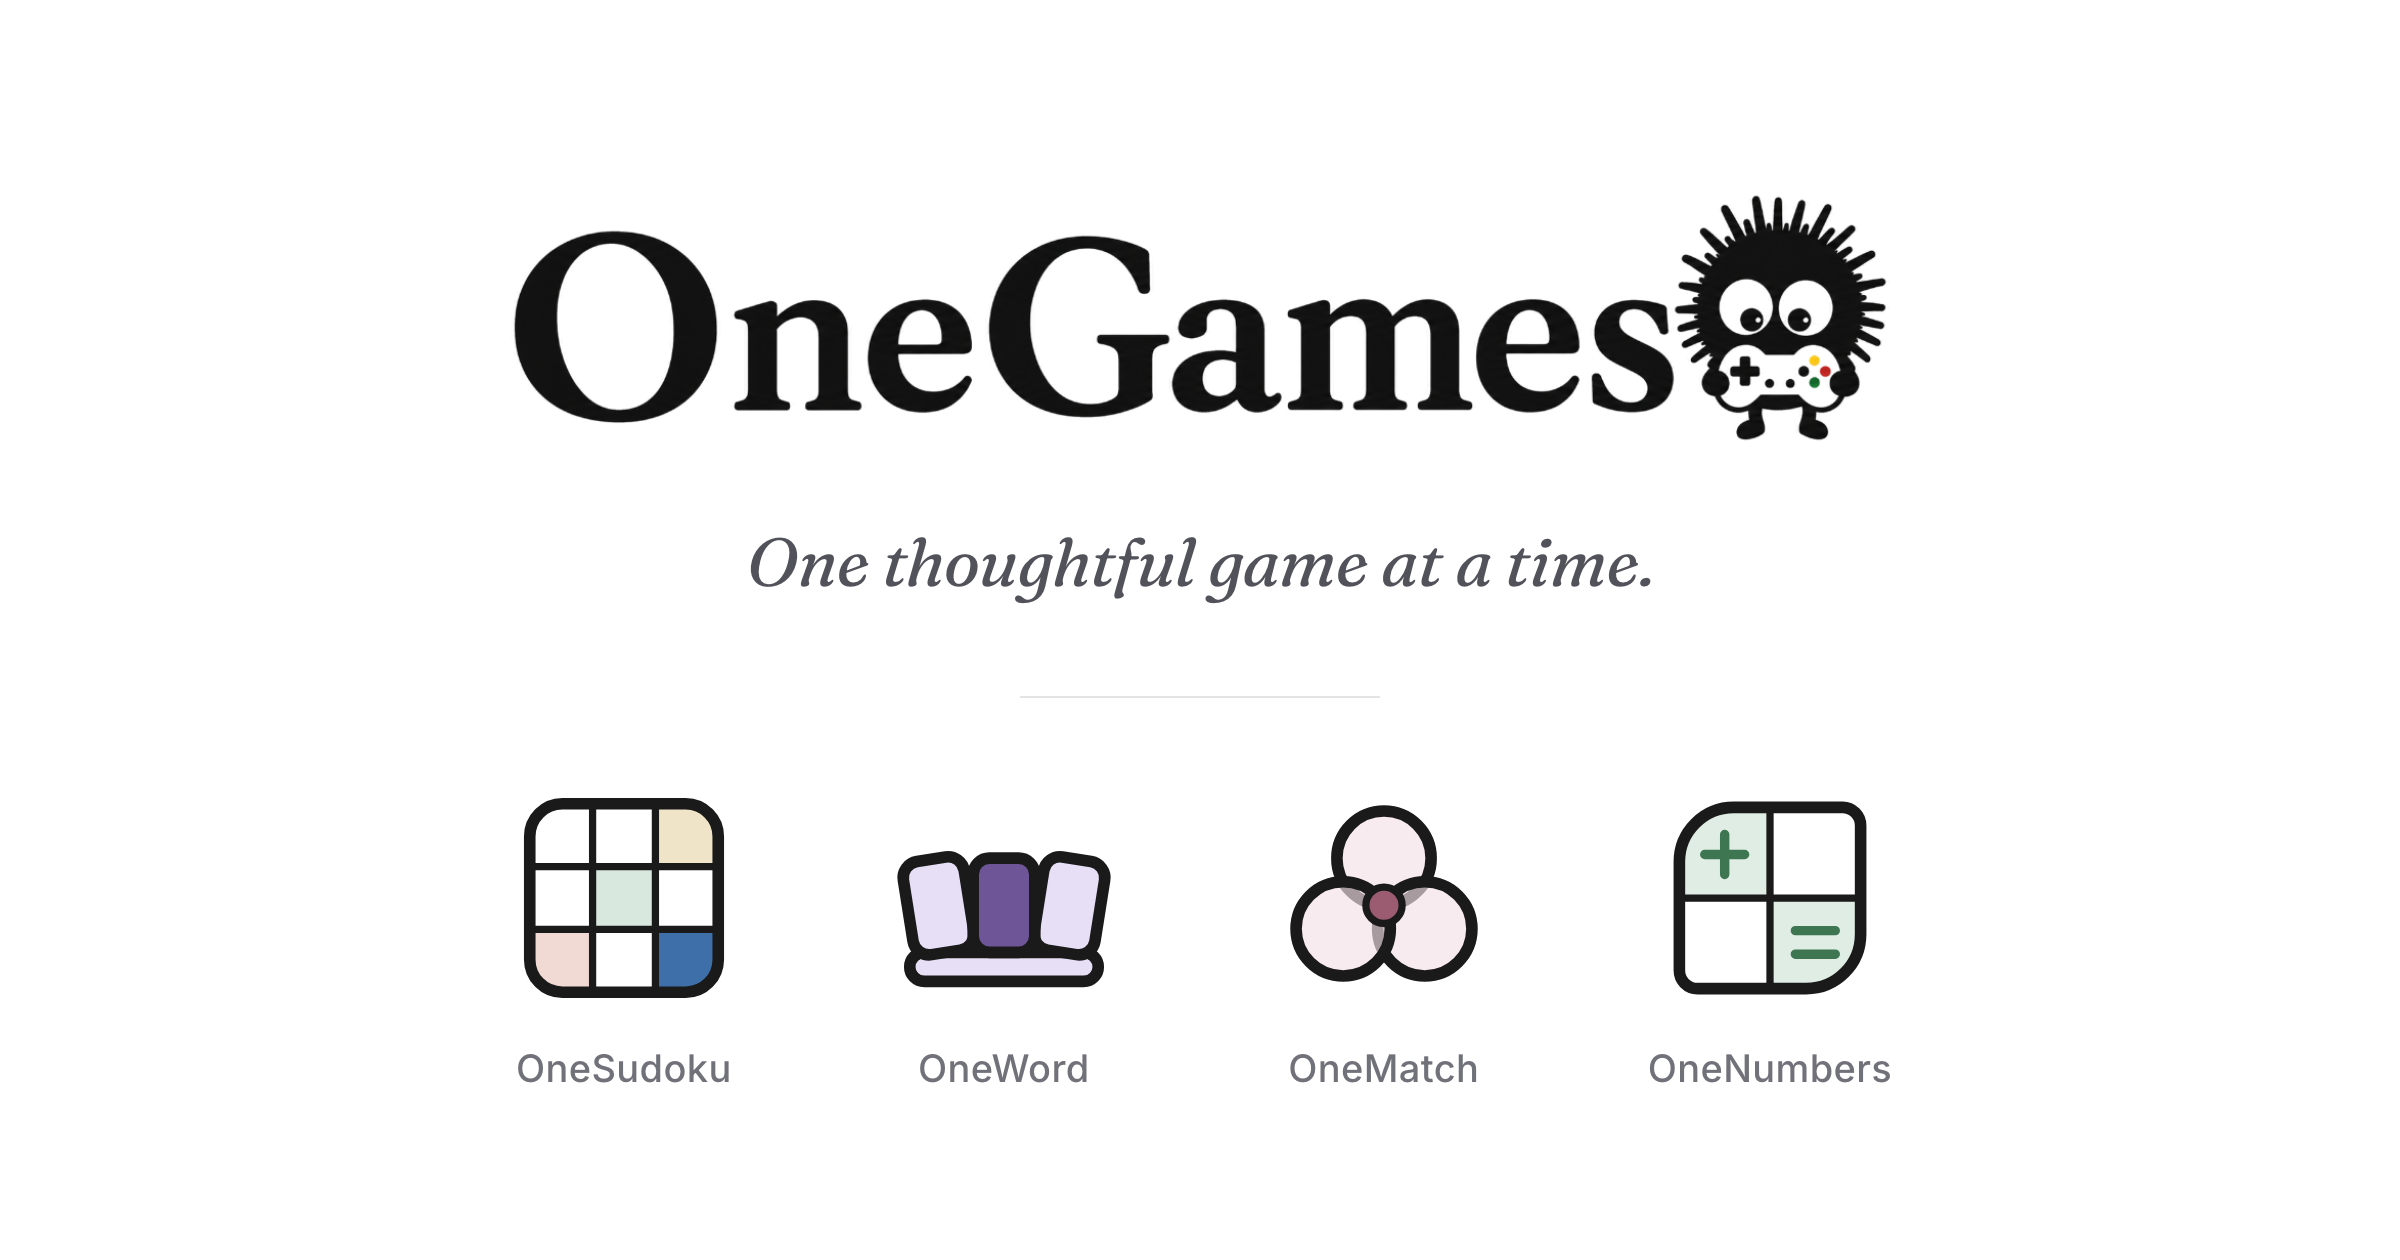
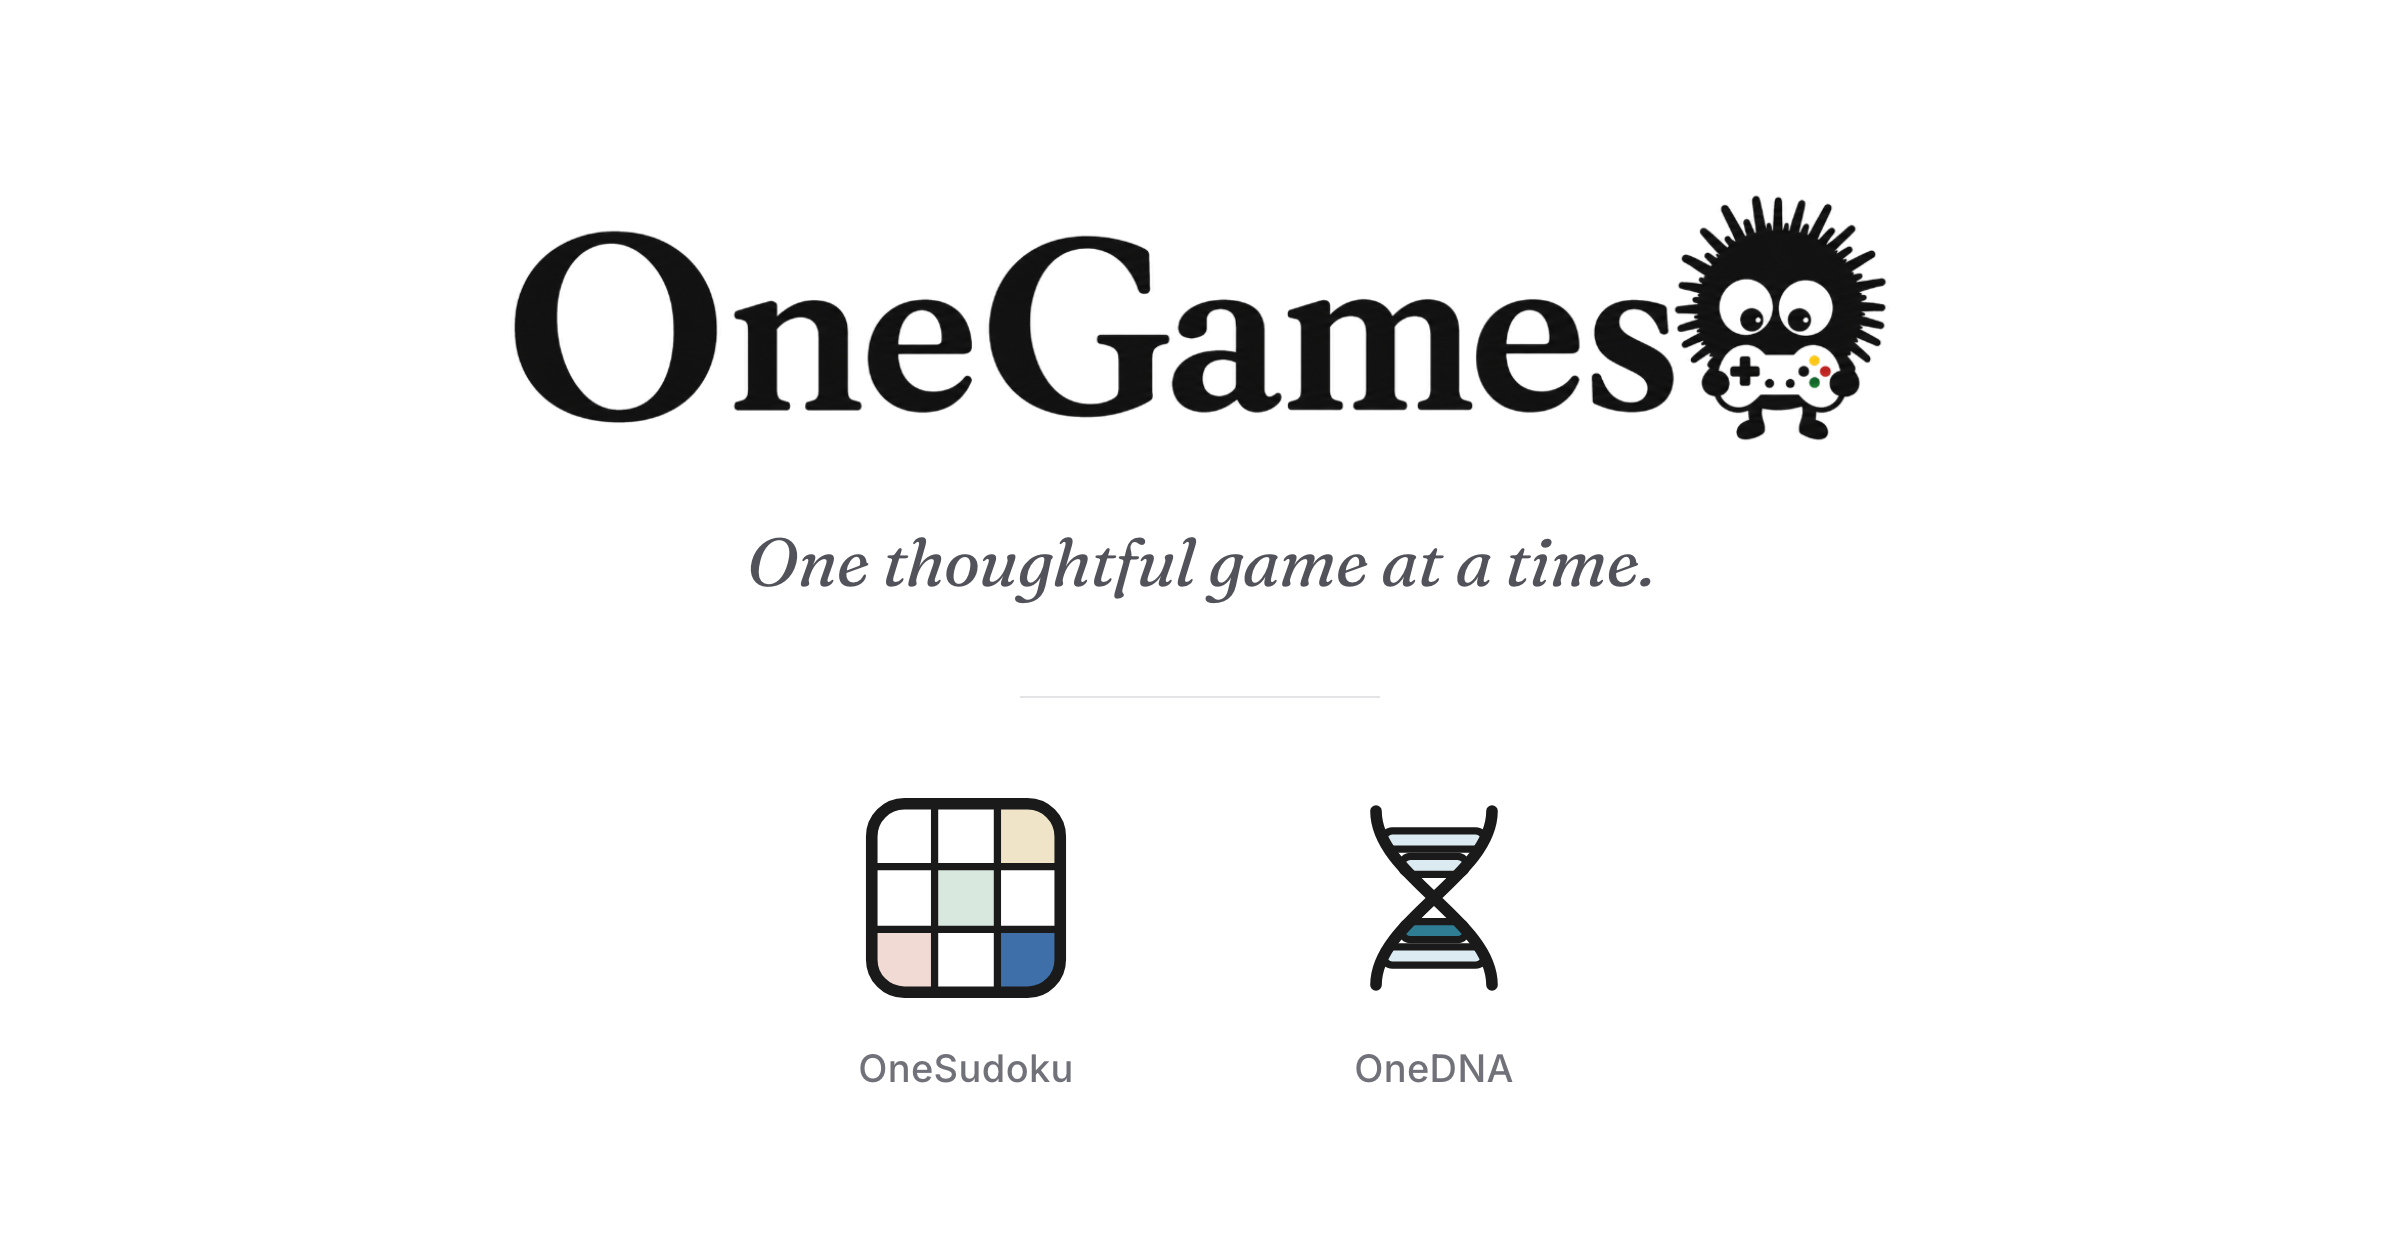
test

diff --git a/components/GameLogo.tsx b/components/GameLogo.tsx
@@ -14,22 +14,18 @@ import type { CSSProperties } from "react";
  * The marks are purely geometric. There are no characters, faces, or mascots,
  * and none of them borrow another puzzle brand's silhouette or palette.
  */
-export type GameKey = "sudoku" | "word" | "match" | "numbers";
+export type GameKey = "sudoku" | "dna";
 
 type Palette = { accent: string; pale: string; wash: string };
 
 export const GAME_PALETTE: Record<GameKey, Palette> = {
   sudoku: { accent: "#3F6FA8", pale: "#DCE8F7", wash: "#EFF5FC" },
-  word: { accent: "#6E5598", pale: "#E7DFF6", wash: "#F3EFFA" },
-  match: { accent: "#9B5C72", pale: "#F5E1E8", wash: "#FAEFF3" },
-  numbers: { accent: "#3F7652", pale: "#DFEDE4", wash: "#EFF6F1" },
+  dna: { accent: "#2F7D95", pale: "#DCEBF1", wash: "#EFF6F9" },
 };
 
 export const GAME_LABEL: Record<GameKey, string> = {
   sudoku: "OneSudoku",
-  word: "OneWord",
-  match: "OneMatch",
-  numbers: "OneNumbers",
+  dna: "OneDNA",
 };
 
 const INK = "#1A1A1A";
@@ -54,9 +50,6 @@ const T0 = 6;
 const T1 = 23.333;
 const T2 = 40.667;
 const T3 = 58;
-
-const NUMBERS_PANEL =
-  "M7 22C7 13.716 13.716 7 22 7H52C54.761 7 57 9.239 57 12V42C57 50.284 50.284 57 42 57H12C9.239 57 7 54.761 7 52Z";
 
 function SudokuMark({ accent }: Palette) {
   const cell = (column: number, row: number, fill: string) => (
@@ -104,125 +97,53 @@ function SudokuMark({ accent }: Palette) {
   );
 }
 
-/** Three tiles resting on — and leaning against — one shared base. */
-const WORD_BASE_Y = 47;
-const WORD_TILES = [
-  { x: 7.5, rotate: -9 },
-  { x: 39.5, rotate: 9 },
-];
-const WORD_TILE_Y = 21;
-const WORD_TILE_HEIGHT = 26;
-
-function WordMark({ accent, pale }: Palette) {
-  return (
-    <>
-      <rect
-        x={6}
-        y={WORD_BASE_Y}
-        width={52}
-        height={8}
-        rx={4}
-        fill={pale}
-        stroke={INK}
-        strokeWidth={OUTER}
-        strokeLinejoin="round"
-      />
-      {WORD_TILES.map((tile) => (
-        <rect
-          key={tile.x}
-          x={tile.x}
-          y={WORD_TILE_Y}
-          width={17}
-          height={WORD_TILE_HEIGHT}
-          rx={4.5}
-          fill={pale}
-          stroke={INK}
-          strokeWidth={OUTER}
-          strokeLinejoin="round"
-          // Pivot on the base so the tiles lean rather than float.
-          transform={`rotate(${tile.rotate} ${tile.x + 8.5} ${WORD_BASE_Y})`}
-        />
-      ))}
-      {/* The upright middle tile is this mark's single solid accent moment. */}
-      <rect
-        x={23.5}
-        y={WORD_TILE_Y}
-        width={17}
-        height={WORD_TILE_HEIGHT}
-        rx={4.5}
-        fill={accent}
-        stroke={INK}
-        strokeWidth={OUTER}
-        strokeLinejoin="round"
-      />
-    </>
-  );
-}
-
 /**
- * Three rings whose centres each sit exactly one radius from the shared middle,
- * so every ring passes through the same point.
+ * A double helix: two strands crossing at the centre, four rungs between them.
+ *
+ * Free-standing rather than panelled, so it reads as a different object from
+ * the OneSudoku grid at family scale. The strands are point-symmetric about the
+ * middle, which is what produces the wide-narrow-narrow-wide rung rhythm that
+ * makes a helix legible at 20px. The third rung is this mark's single solid
+ * accent moment, in the same lower-right position OneSudoku puts its own.
  */
-const MATCH_CENTRE = { x: 32, y: 34 };
-const MATCH_RADIUS = 13;
-const MATCH_RINGS = [-90, 30, 150].map((degrees) => {
-  const radians = (degrees * Math.PI) / 180;
-  return {
-    cx: MATCH_CENTRE.x + Math.cos(radians) * MATCH_RADIUS,
-    cy: MATCH_CENTRE.y + Math.sin(radians) * MATCH_RADIUS,
-  };
-});
+const DNA_STRANDS = ["M16 8C16 26 48 38 48 56", "M48 8C48 26 16 38 16 56"];
 
-function MatchMark({ accent, pale }: Palette) {
+/** Each rung spans the strands at its own height, so the pair pinches inward. */
+const DNA_RUNGS = [
+  { x: 18, y: 13.5, width: 28, solid: false },
+  { x: 23, y: 20.5, width: 18, solid: false },
+  { x: 23, y: 38.5, width: 18, solid: true },
+  { x: 18, y: 45.5, width: 28, solid: false },
+];
+
+function DnaMark({ accent, pale }: Palette) {
   return (
     <>
-      {MATCH_RINGS.map((ring) => (
-        <circle
-          key={`${ring.cx.toFixed(2)}-${ring.cy.toFixed(2)}`}
-          cx={ring.cx}
-          cy={ring.cy}
-          r={MATCH_RADIUS}
-          fill={pale}
-          fillOpacity={0.65}
+      {DNA_RUNGS.map((rung) => (
+        <rect
+          key={rung.y}
+          x={rung.x}
+          y={rung.y}
+          width={rung.width}
+          height={5}
+          rx={2.5}
+          fill={rung.solid ? accent : pale}
           stroke={INK}
-          strokeWidth={OUTER}
+          strokeWidth={INNER}
+          strokeLinejoin="round"
         />
       ))}
-      <circle
-        cx={MATCH_CENTRE.x}
-        cy={MATCH_CENTRE.y}
-        r={5}
-        fill={accent}
-        stroke={INK}
-        strokeWidth={INNER}
-      />
-    </>
-  );
-}
-
-function NumbersMark({ accent, pale }: Palette) {
-  return (
-    <>
-      <path d={NUMBERS_PANEL} fill="#FFFFFF" />
-      <g clipPath="url(#one-numbers-clip)">
-        <rect x={7} y={7} width={25} height={25} fill={pale} />
-        <rect x={32} y={32} width={25} height={25} fill={pale} />
-      </g>
-      {/* Plus and equals, drawn as strokes so they never depend on a font. */}
-      <path
-        d="M19.5 14.5v11M14 20h11"
-        stroke={accent}
-        strokeWidth={INNER + 0.6}
-        strokeLinecap="round"
-      />
-      <path
-        d="M39 41h11M39 47.5h11"
-        stroke={accent}
-        strokeWidth={INNER + 0.6}
-        strokeLinecap="round"
-      />
-      <path d="M32 7v50M7 32h50" stroke={INK} strokeWidth={INNER} strokeLinecap="round" />
-      <path d={NUMBERS_PANEL} fill="none" stroke={INK} strokeWidth={OUTER} strokeLinejoin="round" />
+      {/* Drawn last so the strands read as the structure and cap the rungs. */}
+      {DNA_STRANDS.map((strand) => (
+        <path
+          key={strand}
+          d={strand}
+          fill="none"
+          stroke={INK}
+          strokeWidth={OUTER}
+          strokeLinecap="round"
+        />
+      ))}
     </>
   );
 }
@@ -262,25 +183,14 @@ export function GameLogo({ game, size = 96, decorative = false, className = "", 
           <SudokuMark {...palette} />
         </>
       )}
-      {game === "word" && <WordMark {...palette} />}
-      {game === "match" && <MatchMark {...palette} />}
-      {game === "numbers" && (
-        <>
-          <defs>
-            <clipPath id="one-numbers-clip">
-              <path d={NUMBERS_PANEL} />
-            </clipPath>
-          </defs>
-          <NumbersMark {...palette} />
-        </>
-      )}
+      {game === "dna" && <DnaMark {...palette} />}
     </svg>
   );
 }
 
 /**
- * The four marks nested into one small lockup — used wherever the membership
- * (rather than a single game) is the subject: access, pricing, social card.
+ * The family in one small lockup — used wherever the membership (rather than a
+ * single game) is the subject: access, pricing, social card.
  */
 export function GameLogoFamily({
   size = 46,
@@ -289,7 +199,7 @@ export function GameLogoFamily({
   size?: number;
   className?: string;
 }) {
-  const games: GameKey[] = ["sudoku", "word", "match", "numbers"];
+  const games: GameKey[] = ["sudoku", "dna"];
   return (
     <span className={`logo-family ${className}`.trim()} role="img" aria-label="The OneGames family">
       {games.map((game) => (

diff --git a/app/globals.css b/app/globals.css
@@ -32,9 +32,12 @@
   --sudoku: #3f6fa8;
   --sudoku-pale: #dce8f7;
   --sudoku-wash: #eff5fc;
-  --word: #6e5598;
-  --match: #9b5c72;
-  --numbers: #3f7652;
+  --dna: #2f7d95;
+  --dna-pale: #dcebf1;
+  --dna-wash: #eff6f9;
+
+  /* Quiet green for guidance and completion — not a game accent. */
+  --guide: #3f7652;
 
   /* Colored groups — the palette keys puzzle data refers to by name.
      Each pair is a readable ink for markers and hairlines, and a wash light
@@ -879,8 +882,9 @@ button,
   }
 
   .game-family-grid {
-    grid-template-columns: repeat(4, 1fr);
-    gap: 20px;
+    max-width: 30rem;
+    margin-inline: auto;
+    gap: 32px;
   }
 }
 
@@ -1279,12 +1283,12 @@ button,
 }
 
 .archive-status.is-complete {
-  color: var(--numbers);
+  color: var(--guide);
 }
 
 .archive-status.is-complete i {
-  background: var(--numbers);
-  border-color: var(--numbers);
+  background: var(--guide);
+  border-color: var(--guide);
 }
 
 .archive-row b {
@@ -1933,7 +1937,7 @@ button,
 .hint-note {
   margin-bottom: 14px;
   padding: 12px 14px;
-  border-left: 2px solid var(--numbers);
+  border-left: 2px solid var(--guide);
   border-radius: 0 10px 10px 0;
   background: #f1f6f2;
   color: var(--ash);
@@ -1943,7 +1947,7 @@ button,
 
 .hint-note span {
   margin-right: 8px;
-  color: var(--numbers);
+  color: var(--guide);
   font-size: 10px;
   font-weight: 600;
   letter-spacing: 0.1em;

diff --git a/tests/shell.spec.ts b/tests/shell.spec.ts
@@ -161,15 +161,20 @@ test.describe("Homepage", () => {
     await expect(page.locator(".opening-loader")).toHaveCount(0);
   });
 
-  test("introduces the four games and their state", async ({ page }) => {
+  test("introduces the family and its state", async ({ page }) => {
     await page.goto("/");
     await expect(page.getByRole("heading", { name: "Meet the OneGames family." })).toBeVisible();
 
+    // Two games, one playable today and one announced.
     await expect(page.getByRole("link", { name: "Play OneSudoku" })).toBeVisible();
+    await expect(page.getByRole("heading", { name: "OneDNA", exact: true })).toBeVisible();
+    await expect(page.locator(".game-card")).toHaveCount(2);
+    await expect(page.getByText("Coming soon")).toHaveCount(1);
+
+    // The retired placeholders must not linger anywhere on the page.
     for (const name of ["OneWord", "OneMatch", "OneNumbers"]) {
-      await expect(page.getByRole("heading", { name, exact: true })).toBeVisible();
+      await expect(page.getByText(name)).toHaveCount(0);
     }
-    await expect(page.getByText("Coming soon")).toHaveCount(3);
   });
 
   test("the primary call to action reaches the access flow", async ({ page }) => {

diff --git a/components/GameFamily.tsx b/components/GameFamily.tsx
@@ -13,12 +13,10 @@ const GAMES: {
     description: "A clear grid for a clear mind",
     href: "/play",
   },
-  { key: "word", name: "OneWord", description: "One word, carefully found" },
-  { key: "match", name: "OneMatch", description: "Quiet connections" },
-  { key: "numbers", name: "OneNumbers", description: "A little arithmetic" },
+  { key: "dna", name: "OneDNA", description: "Pairs that belong together" },
 ];
 
-/** The four marks at homepage scale — the family, shown rather than described. */
+/** The family at homepage scale — shown rather than described. */
 export function GameFamily() {
   return (
     <section className="game-family reveal-item reveal-item-4" aria-labelledby="game-family-heading">

diff --git a/components/OpeningLoader.tsx b/components/OpeningLoader.tsx
@@ -14,9 +14,7 @@ import { GAME_PALETTE } from "@/components/GameLogo";
 const SEQUENCE = [
   { suffix: "Games", color: "#1A1A1A" },
   { suffix: "Sudoku", color: GAME_PALETTE.sudoku.accent },
-  { suffix: "Word", color: GAME_PALETTE.word.accent },
-  { suffix: "Match", color: GAME_PALETTE.match.accent },
-  { suffix: "Numbers", color: GAME_PALETTE.numbers.accent },
+  { suffix: "DNA", color: GAME_PALETTE.dna.accent },
 ] as const;
 
 /** Only the calm, top-of-funnel pages get the opening animation. */

diff --git a/README.md b/README.md
@@ -16,8 +16,8 @@ company:
 - the lockup — wordmark plus character — at one fixed height (28px / 34px),
   centred on **every** route
 - the same page padding on every route, verified by a test
-- a typewriter opening loader — OneGames → OneSudoku → OneWord → OneMatch →
-  OneNumbers — handing off to a staggered content reveal
+- a typewriter opening loader — OneGames → OneSudoku → OneDNA — handing off to
+  a staggered content reveal
 - calm black pill CTAs, restrained motion, no cards or dashboards
 - one centred footer: a Fraunces-italic tagline over
   Terms · Privacy · About · Pricing
@@ -58,7 +58,7 @@ strictly geometric — no faces anywhere in them.
 
 ## The identity system
 
-`components/GameLogo.tsx` draws all four marks in code on a shared 64×64 grid,
+`components/GameLogo.tsx` draws every mark in code on a shared 64×64 grid,
 so they are sharp at any size and there is no raster asset to regenerate. They
 share one construction language — a 3.2 outer stroke, a 2 inner stroke, a
 9-unit corner radius, a pale cell rhythm, and a single solid accent moment —
@@ -67,9 +67,7 @@ while staying individually recognisable at 16px:
 | Mark | Idea | Accent |
 | --- | --- | --- |
 | OneSudoku | Rounded logic grid, three colour families crossing it, one solid completion cell | Pale blue + region tints |
-| OneWord | Three tiles leaning on a shared base, the middle one solid | Pale lilac |
-| OneMatch | Three rings whose centres each sit one radius from a shared middle | Pale rose |
-| OneNumbers | Asymmetric-cornered 2×2 arithmetic panel | Pale green |
+| OneDNA | Free-standing twisted ladder, three rungs, the middle one solid | Pale teal |
 
 They are used large on the homepage, as a small family lockup on the access and
 pricing pages, and as the product mark in the game. There are no characters,
